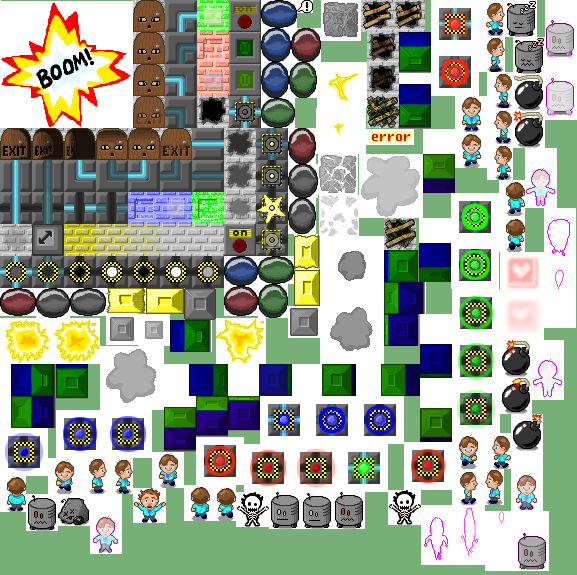
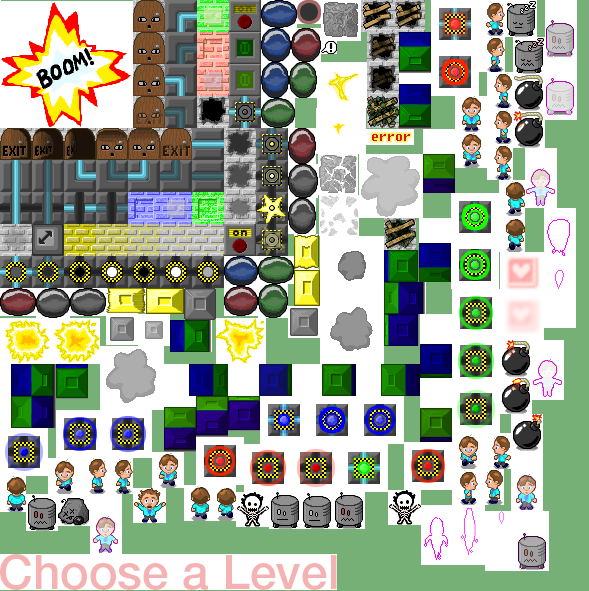
some browse draw stuff

diff --git a/escapex/browse.cc b/escapex/browse.cc
@@ -1,4 +1,7 @@
 
+// XXX trim.
+// Things like client operations (upload/comment) need to be in 
+// separate files.
 #include "escapex.h"
 #include "level.h"
 #include "sdlutil.h"
@@ -26,6 +29,7 @@
 
 #include "optimize.h"
 #include "client.h"
+#include "animation.h"
 
 #include "menu.h"
 
@@ -98,7 +102,118 @@ void browse_::makebackground() {
 			      backgrounds::purpleish);
   if (!background) return;
 
-  // XXX draw borders, etc. ...
+  const Uint32 curveborder_color =
+    SDL_MapRGBA(background->format, 163, 102, 102, 255);
+
+  /* Border around the whole thing. */
+
+  /* Curves are square. */
+  const int curve_size = 12;
+  const int curveborder_width = 3;
+  const int border_x1 = 17, border_y1 = 13;
+  const int border_x2 = w - 17, border_y2 = h - 13;
+
+  /* Curves */
+  sdlutil::blitall(animation::curveborder_tan_tl, background,
+		   border_x1, border_y1);
+  sdlutil::blitall(animation::curveborder_tan_tr, background,
+		   border_x2 - curve_size, border_y1);
+  sdlutil::blitall(animation::curveborder_tan_br, background,
+		   border_x2 - curve_size, border_y2 - curve_size);
+  sdlutil::blitall(animation::curveborder_tan_bl, background,
+		   border_x1, border_y2 - curve_size);
+
+  const int inborder_height = border_y2 - border_y1 - curve_size * 2;
+  const int inborder_width = border_x2 - border_x1 - curve_size * 2;
+
+  /* Thick border connecting curves */
+  /* left */
+  sdlutil::fillrect(background, curveborder_color,
+		    border_x1, border_y1 + curve_size,
+		    curveborder_width, 
+		    inborder_height);
+
+  /* top */
+  sdlutil::fillrect(background, curveborder_color,
+		    border_x1 + curve_size, 
+		    border_y1,
+		    inborder_width,
+		    curveborder_width);
+
+  /* right */
+  sdlutil::fillrect(background, curveborder_color,
+		    border_x2 - curveborder_width,
+		    border_y1 + curve_size,
+		    curveborder_width,
+		    inborder_height);
+
+  /* bottom */
+  sdlutil::fillrect(background, curveborder_color,
+		    border_x1 + curve_size,
+		    border_y2 - curveborder_width,
+		    inborder_width,
+		    curveborder_width);
+  
+  /* Partially-translucent insides. */
+  {
+    SDL_Surface * vert = sdlutil::makealpharect(curve_size - curveborder_width,
+						inborder_height,
+						0, 0, 0, 0.8 * 255);
+    SDL_Surface * horiz = sdlutil::makealpharect(inborder_width,
+						 curve_size - curveborder_width,
+						 0, 0, 0, 0.8 * 255);
+    SDL_Surface * center = sdlutil::makealpharect(inborder_width,
+						  inborder_height,
+						  0, 0, 0, 0.8 * 255);
+   
+    /* left and right */
+    sdlutil::blitall(vert, background, 
+		     border_x1 + curveborder_width,
+		     border_y1 + curve_size);
+
+    sdlutil::blitall(vert, background, 
+		     border_x2 - curve_size,
+		     border_y1 + curve_size);
+    
+    /* top and bottom */
+    sdlutil::blitall(horiz, background,
+		     border_x1 + curve_size,
+		     border_y1 + curveborder_width);
+
+    sdlutil::blitall(horiz, background,
+		     border_x1 + curve_size,
+		     border_y2 - curve_size);
+
+    /* center */
+    sdlutil::blitall(center, background,
+		     border_x1 + curve_size,
+		     border_y1 + curve_size);
+
+    SDL_FreeSurface(vert);
+    SDL_FreeSurface(horiz);
+    SDL_FreeSurface(center);
+  }
+
+  const int title_x = 39, title_y = 31;
+  sdlutil::blitall(animation::choose_a_level, background, title_x, title_y);
+
+  /* bottom panel */
+  const int bottom_height = 169;
+
+  /* separator bars */
+  const Uint32 separator_color = 
+    SDL_MapRGBA(background->format, 92, 59, 59, 255);
+  const int separator_x = border_x1 + curveborder_width + 1;
+  const int separator_width = border_x2 - border_x1 - curveborder_width * 2 - 2;
+  const int separator_height = 2;
+  const int topsep_y = 112;
+  const int botsep_y = border_y2 - bottom_height - separator_height;
+
+  sdlutil::fillrect(background, separator_color,
+		    separator_x, topsep_y, separator_width, separator_height);
+
+  sdlutil::fillrect(background, separator_color,
+		    separator_x, botsep_y, separator_width, separator_height);
 }
 
 string browse_::selectlevel() {

diff --git a/escapex/animation_load.h b/escapex/animation_load.h
@@ -1525,6 +1525,46 @@
   if (!dalek_teleport4) return false;
   SDL_BlitSurface(all, &r, dalek_teleport4, 0);
 
+  r.x = 297;
+  r.y = 0;
+  r.w = 12;
+  r.h = 12;
+  curveborder_tan_tl = sdlutil::makesurface(r.w, r.h);
+  if (!curveborder_tan_tl) return false;
+  SDL_BlitSurface(all, &r, curveborder_tan_tl, 0);
+
+  r.x = 309;
+  r.y = 0;
+  r.w = 12;
+  r.h = 12;
+  curveborder_tan_tr = sdlutil::makesurface(r.w, r.h);
+  if (!curveborder_tan_tr) return false;
+  SDL_BlitSurface(all, &r, curveborder_tan_tr, 0);
+
+  r.x = 297;
+  r.y = 12;
+  r.w = 12;
+  r.h = 12;
+  curveborder_tan_bl = sdlutil::makesurface(r.w, r.h);
+  if (!curveborder_tan_bl) return false;
+  SDL_BlitSurface(all, &r, curveborder_tan_bl, 0);
+
+  r.x = 309;
+  r.y = 12;
+  r.w = 12;
+  r.h = 12;
+  curveborder_tan_br = sdlutil::makesurface(r.w, r.h);
+  if (!curveborder_tan_br) return false;
+  SDL_BlitSurface(all, &r, curveborder_tan_br, 0);
+
+  r.x = 0;
+  r.y = 554;
+  r.w = 337;
+  r.h = 36;
+  choose_a_level = sdlutil::makesurface(r.w, r.h);
+  if (!choose_a_level) return false;
+  SDL_BlitSurface(all, &r, choose_a_level, 0);
+
   r.x = 366;
   r.y = 129;
   r.w = 48;
@@ -1533,8 +1573,8 @@
   if (!error) return false;
   SDL_BlitSurface(all, &r, error, 0);
 
-  r.x = 297;
-  r.y = 0;
+  r.x = 321;
+  r.y = 41;
   r.w = 16;
   r.h = 13;
   attention = sdlutil::makesurface(r.w, r.h);

diff --git a/escapex/sdlutil.h b/escapex/sdlutil.h
@@ -29,6 +29,14 @@ struct sdlutil {
   /* make a n pixel border around a surface. */
   static void outline(SDL_Surface *, int n, int r, int g, int b, int a);
 
+  /* Blit the entire source surface to the destination at the given
+     position. */
+  static void blitall(SDL_Surface * src, SDL_Surface * dst, int x, int y);
+
+  /* Just like SDL_Fillrect, but no need to crate SDL_Rects */
+  static void fillrect(SDL_Surface *, Uint32 color, 
+		       int x, int y, int w, int h);
+
   /* create a rectangle of the specified size, filled with a color
      at a certain alpha value. This can then be blit to the screen. */
   static SDL_Surface * makealpharect(int w, int h, int r, 

diff --git a/escapex/sdlutil.cc b/escapex/sdlutil.cc
@@ -366,6 +366,22 @@ SDL_Surface * sdlutil::makealpharectgrad(int w, int h,
   return ret;
 }
 
+void sdlutil::fillrect(SDL_Surface * s, Uint32 color, int x, int y, int w, int h) {
+  SDL_Rect dst;
+  dst.x = x;
+  dst.y = y;
+  dst.w = w;
+  dst.h = h;
+  SDL_FillRect(s, &dst, color);
+}
+
+void sdlutil::blitall(SDL_Surface * src, SDL_Surface * dst, int x, int y) {
+  SDL_Rect rec;
+  rec.x = x;
+  rec.y = y;
+  SDL_BlitSurface(src, 0, dst, &rec);
+}
+
 void sdlutil::outline(SDL_Surface * s, int n, int r, int g, int b, int a) {
 
   Uint32 color = SDL_MapRGBA(s->format, r, g, b, a);

diff --git a/escapex/animation_decs.h b/escapex/animation_decs.h
@@ -189,5 +189,10 @@ SDL_Surface * animation::dalek_teleport1;
 SDL_Surface * animation::dalek_teleport2;
 SDL_Surface * animation::dalek_teleport3;
 SDL_Surface * animation::dalek_teleport4;
+SDL_Surface * animation::curveborder_tan_tl;
+SDL_Surface * animation::curveborder_tan_tr;
+SDL_Surface * animation::curveborder_tan_bl;
+SDL_Surface * animation::curveborder_tan_br;
+SDL_Surface * animation::choose_a_level;
 SDL_Surface * animation::error;
 SDL_Surface * animation::attention;

diff --git a/escapex/animation_defs.h b/escapex/animation_defs.h
@@ -189,5 +189,10 @@ static SDL_Surface * dalek_teleport1;
 static SDL_Surface * dalek_teleport2;
 static SDL_Surface * dalek_teleport3;
 static SDL_Surface * dalek_teleport4;
+static SDL_Surface * curveborder_tan_tl;
+static SDL_Surface * curveborder_tan_tr;
+static SDL_Surface * curveborder_tan_bl;
+static SDL_Surface * curveborder_tan_br;
+static SDL_Surface * choose_a_level;
 static SDL_Surface * error;
 static SDL_Surface * attention;

diff --git a/escapex/backgrounds.h b/escapex/backgrounds.h
@@ -17,6 +17,7 @@ struct backgrounds {
 			     int tile_black,
 			     float gradient_hue);
 
+  /* Hues in degrees */
   static const float blueish;
   static const float purpleish;
 
